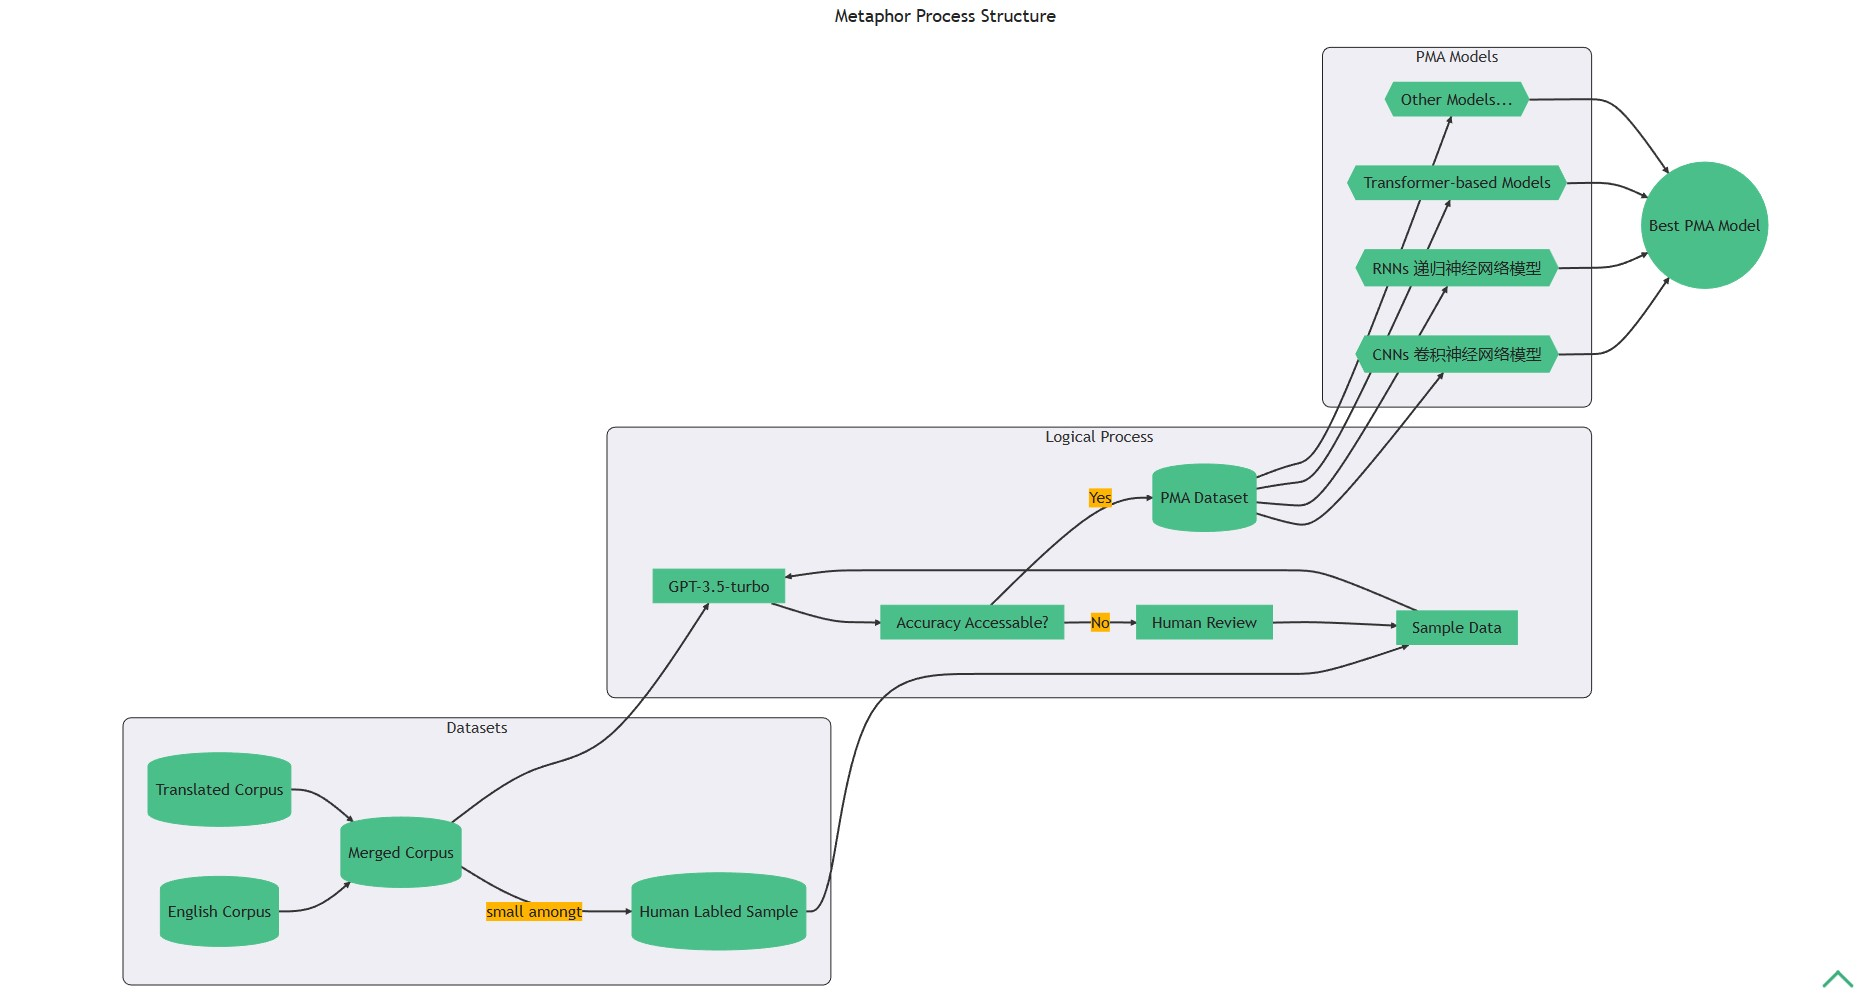
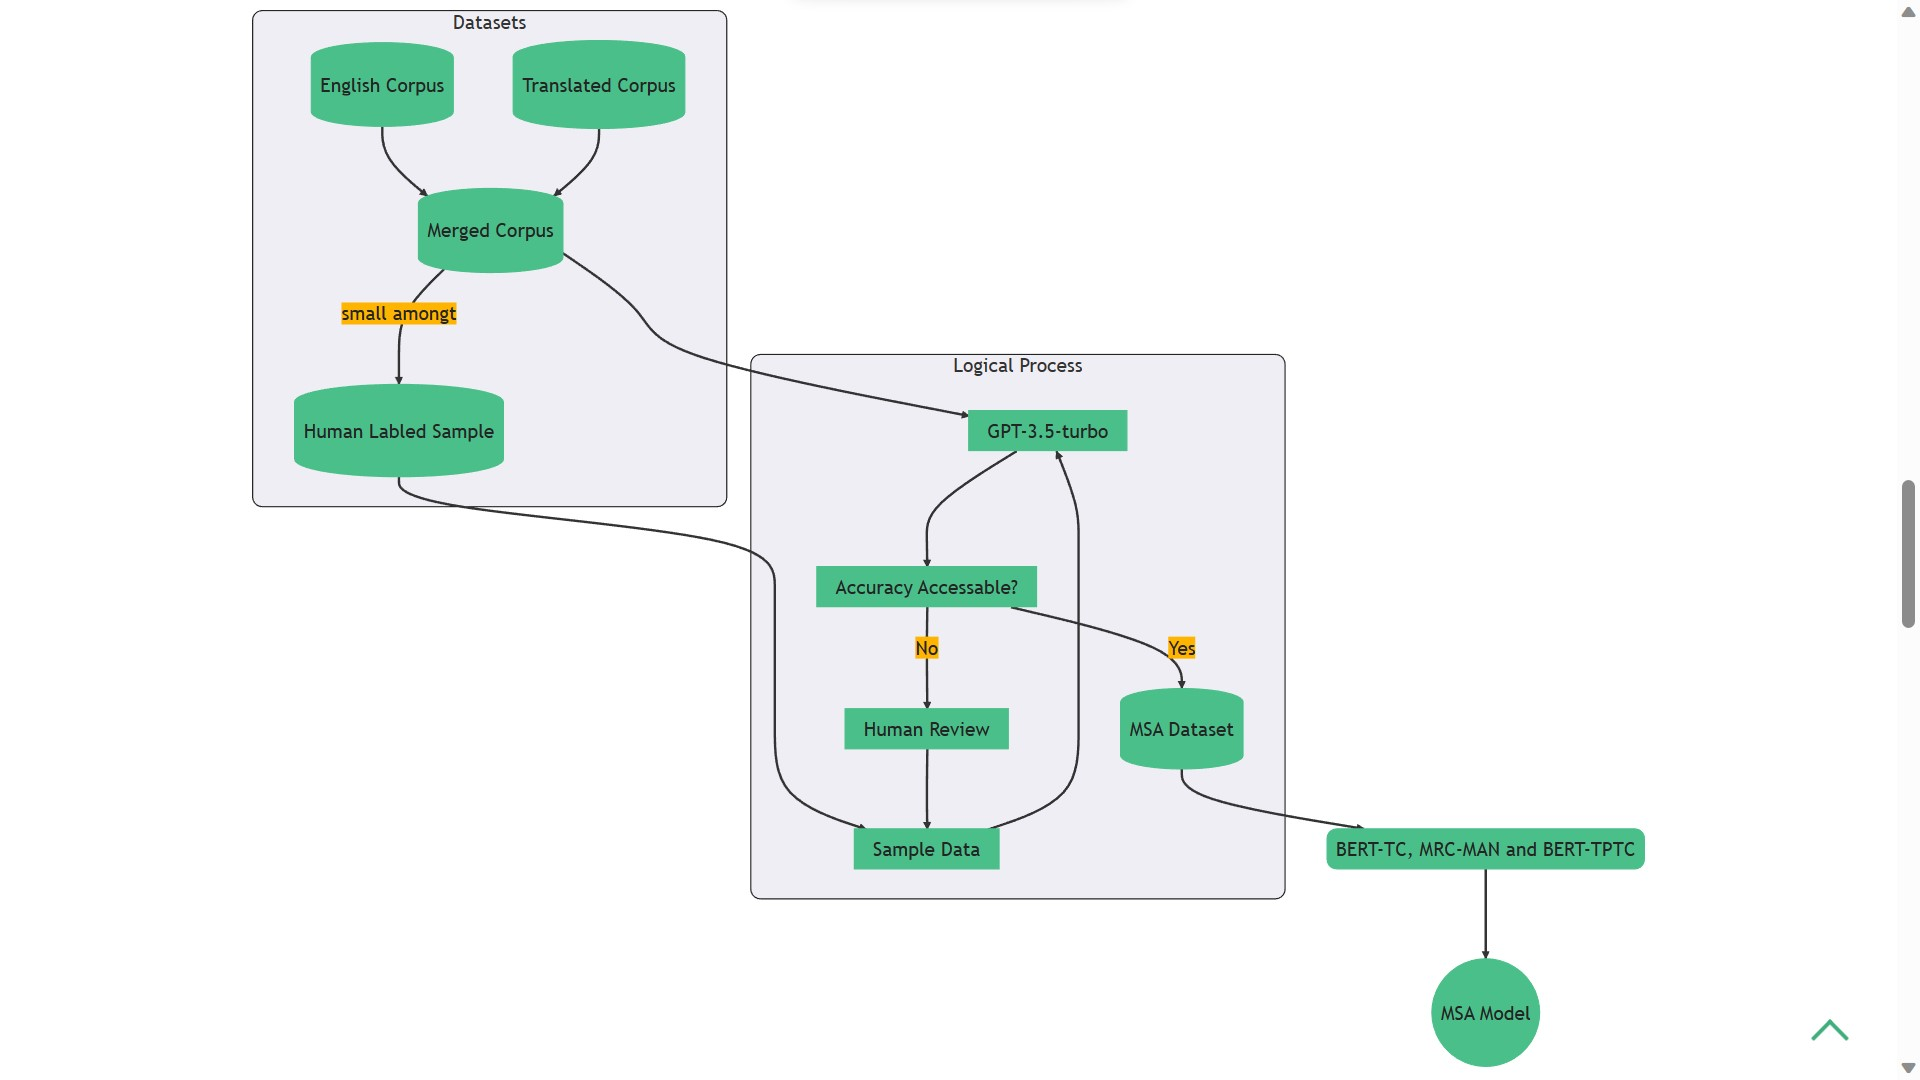
0

diff --git a/docs/english/Trump's_Inaugural_Address_Analysis.md b/docs/english/Trump's_Inaugural_Address_Analysis.md
@@ -1,54 +1,64 @@
-# Automated Analysis of Political Metaphors Based on Large Language Models: A Case Study of Trump’s Inaugural Speech
+# 基于深度学习的自动化政治隐喻分析研究：以特朗普就职演讲为例
 
 :::tip Abstract
-Political metaphors are widely used to shape public opinion and influence decision-making. However, traditional methods of political metaphor analysis (PMA) are often time-consuming, subjective and limited in scope. In this paper, we introduce a novel approach to PMA based on generative pre-trained transformers (GPT), a recent trend in natural language processing. We use GPT-3.5, a large-scale language model released by OpenAI, to analyse a corpus of political passages and generate a new dataset containing text and metaphor predictions. We then use this dataset to train our own metaphor model based on <根据实验结果选择最合适的模型>, which can identify and classify metaphors in political discourse. We test our metaphor model on the case of Trump's inaugural speech and achieve an accuracy of about <这篇论文是否存在取决于准确率的高低>, which indicates that our model can be used to analyse political metaphors effectively and efficiently.
+Political metaphors are widely used to shape public opinion and influence decision-making. However, traditional methods of political Metaphor Scenario analysis (MSA) are often time-consuming, subjective and limited in scope. In this paper, we introduce a novel approach to MSA based on generative pre-trained transformers (GPT), a recent trend in natural language processing. We use GPT-3.5, a large-scale language model released by OpenAI, to analyse a corpus of political passages and generate a new dataset containing text and metaphor predictions. We then use this dataset to train our own metaphor model based on <根据实验结果选择最合适的模型>, which can identify and classify metaphors in political discourse. We test our metaphor model on the case of Trump's inaugural speech and achieve an accuracy of about <这篇论文是否存在取决于准确率的高低>, which indicates that our model can be used to analyse political metaphors effectively and efficiently.
 :::
+
+## 目录
+
+[[toc]]
 
 ## 1 Introduction
 
-^[Dementieva D, Trifinov I, Likhachev A, et al. Detecting Text Formality: A Study of Text Classification Approaches[EB/OL]. arXiv:2204.08975[cs.CL], 2022.]
-^[Wu C, Yin S, Qi W, et al. Visual ChatGPT: Talking, Drawing and Editing with Visual Foundation Models[EB/OL]. arXiv:2303.04671[cs.CV], 2023.]
-^[Shen Y, Song K, Tan X, et al. HuggingGPT: Solving AI Tasks with ChatGPT and its Friends in HuggingFace[EB/OL]. arXiv:2303.17580[cs.CL], 2023.]
+### 1.1 课题研究背景
+
+One day, my instructor assigned us the task of composing an outline regarding a specific study on Trump’s Inaugural Address. While researching this topic, I discovered an intriguing approach to analysis known as Metaphor Scenario analysis (MSA). Based on the essays I read, it appears that this type of study is largely constrained by traditional methods of analysis, which involve detailed human examination of political texts. As a result, researchers are often limited to analyzing only a few texts, or even just one, for the entirety of their study. This precludes the possibility of drawing broader conclusions about specific political figures or other areas of inquiry.
+
+有一天，我的老师要求我们写一篇关于特朗普就职演说的特定研究的提纲。在研究这个主题时，我发现了一种名为隐喻图景分析（MSA）的有趣分析方法。根据我阅读的几篇论文，这种研究类型很大程度上受到传统分析方法的限制，这些方法涉及对政治文本的详细人工检查。因此，研究人员通常只能分析几篇甚至只有一篇文本来进行整个研究。这排除了关于特定政治人物或其他研究领域得出更广泛结论的可能性。
+
+### 1.2 研究目的和意义
+
+In an effort to expedite research in the field of MSA and complete our assigned coursework, we have developed a deep learning training system with the aim of automating MSA. Should the resulting model achieve an F1 score exceeding 0.99, it will be deemed suitable for utilization in large sample analysis for real research purposes.
+
+为了加快 MSA 领域的研究并完成我们指定的课程作业，我们开发了一个深度学习训练系统，目的是使 MSA 自动化。如果产生的模型达到了超过 0.95 的 F1 分数，它将被认为适合用于实际研究目的的大样本分析。
 
 ## 2 Related Works
 
 ### 2.1 Large Language Models
 
-^[Brown T B, Mann B, Ryder N, et al. Language Models are Few-Shot Learners[C]. Conference on Neural Information Processing Systems (NeurIPS), 2020.]
-^[Ouyang L, Wu J, Jiang X, et al. Training language models to follow instructions with human feedback[EB/OL]. 2022.]
-^[Chowdhery A, Narang S, Devlin J, et al. PaLM: Scaling Language Modeling with Pathways[EB/OL]. arXiv:2204.02311[cs.CL], 2022.]
-^[Zhang S, Roller S, Goyal N, et al. Opt: Open Pre-trained Transformer Language Models[EB/OL]. ArXiv, abs/2205.01068, 2022.]
-^[Zeng A, Liu X, Du Z, et al. Glm-130b: An Open Bilingual Pre-trained Model[C]. ICLR 2023 poster, 2023.]
-^[Touvron H, Lavril T, Izacard G, et al. Llama: Open and Efficient Foundation Language Models[EB/OL]. ArXiv, abs/2302.13971, 2023.]
+While GPT-4 may be the most suitable Large Language Model (LLM) for this task, it is not open source and therefore cannot be utilized in this research. Additionally, our instructor has expressed a preference against using GPT-4 for coursework. Fortunately, many foundation models for GPT-4 are open source and their reliability has been demonstrated by the success of the GPT series. In this study, we have elected to use BERT-TC (BERT-based Token Classification) as our tokenizer and MRC-MAN (Machine Reading Comprehension with Max Argument Number) and BERT-TPTC (BERT-based Two-Phased Token Classification) to identify tokens (words or phrases) of value in MSA research.
 
-### 2.2 Political Metaphor Analysis
+虽然 GPT-4 可能是最适合这项任务的大型语言模型（LLM），但它不是开源的，因此不能在本研究中加以利用。此外，我们的老师也表示不愿意将 GPT-4 用于课程作业。幸运的是，GPT-4 的许多基础模型都是开源的，其可靠性已经被 GPT 系列的成功所证明。在这项研究中，我们选择使用 BERT-TC 作为我们的 tokeniser，并使用 MRC-MAN 和 BERT-TPTC 来识别具有 MSA 研究价值的 token（单词或短语）。
 
-^[Musolff A. Political Metaphor Analysis: Discourse and Scenarios[M]. London: Bloomsbury Academic, 2016.]
+### 2.2 Metaphor Scenario analysis
+
+MSA is a prime example of the eclectic nature of academic research on metaphor in political discourse. Synthesising the main tenets of Conceptual Metaphor Theory (CMT), Critical Discourse Analysis (CDA) and Critical Metaphor Analysis (CMA) — which together provide the theoretical framework for investigating the multiple functions of political metaphor and metonymy — Musolff in his book presents a new methodological tool for metaphor research in discourse: the notion of metaphor scenarios, discourse-based conceptual structures realised in recurring narrative, argumentative and evaluative patterns that can be veri tied against synchronic or diachronic corpus data in order to yield insights into metaphor use, variation, interpretation and socio-historical situatedness.^[Musolff A. Political Metaphor Analysis: Discourse and Scenarios[M]. London: Bloomsbury Academic, 2016.]^[Arcimavičienė, L. (2017). A. Musolff, Political Metaphor Analysis: Discourse and scenarios. London: Bloomsbury Academic. Language and Cognition, 9(2), 371-377.]
+
+政治隐喻分析是关于政治话语中隐喻的学术研究~~折衷性质~~兼收并蓄的一个典型例子。综合概念隐喻理论（CMT）、批评话语分析（CDA）和批评隐喻分析（CMA）的主要原则--它们共同为研究政治隐喻和隐喻的多种功能提供了理论框架——Musolff 在他的书中提出了一种用于话语中隐喻研究的新方法学工具：隐喻情景的概念，即以话语为基础的概念结构，在反复出现的叙述、论证和评价模式中得到实现，可以与同步或异步语料库数据进行对比，以产生对隐喻使用、变化、解释和社会历史状况的洞察力。
 
 ### 2.3 Advances in LLM Capabilities
 
+介绍一下 LLM 的优势。^[Brown T B, Mann B, Ryder N, et al. Language Models are Few-Shot Learners[C]. Conference on Neural Information Processing Systems (NeurIPS), 2020.]^[Ouyang L, Wu J, Jiang X, et al. Training language models to follow instructions with human feedback[EB/OL]. 2022.]^[Chowdhery A, Narang S, Devlin J, et al. PaLM: Scaling Language Modeling with Pathways[EB/OL]. arXiv:2204.02311[cs.CL], 2022.]^[Zhang S, Roller S, Goyal N, et al. Opt: Open Pre-trained Transformer Language Models[EB/OL]. ArXiv, abs/2205.01068, 2022.]^[Zeng A, Liu X, Du Z, et al. Glm-130b: An Open Bilingual Pre-trained Model[C]. ICLR 2023 poster, 2023.]^[Touvron H, Lavril T, Izacard G, et al. Llama: Open and Efficient Foundation Language Models[EB/OL]. ArXiv, abs/2302.13971, 2023.]
+
 ## 3 Datasets
 
-### 3.1 Political Discourse in English
+### 3.1 Existing Papers
 
-^[[erikgahner/PolData: A dataset with political datasets](https://github.com/erikgahner/PolData)]
+Although MSA is a relatively new theory, it has already been applied in numerous research papers. Some of these paper's subjects are written in English, such as a paper analyzing Brexit^[孙毅,熊佳腾.英国脱欧话语的批评隐喻分析[J].解放军外国语学院学报,2022,45(02):1-9+137+160.], and can be directly included in our dataset. Others are written in Chinese but have official English translations, such as a paper analyzing XI JINGPING THE GOVERNANCE OF CHINA^[王卫侠.《习近平谈治国理政》(第三卷)中的隐喻图景阐释——以旅程隐喻为例[J].宜春学院学报,2022,44(11):94-99.], and can be included in our dataset after simple processing.
 
-### 3.2 Official Translated Political Discourse
+虽然 MSA 是一个相对较新的理论，但它已经被应用于许多研究论文中。其中一些论文的研究对象是用英文写的，比如一篇分析英国脱欧的论文，可以直接包含在我们的数据集中。还有一些是用中文写的，但有正式的英文翻译，比如一篇分析《习近平谈治国理政》的论文，经过简单的处理后，也可以纳入我们的数据集。
 
-^[[《习近平谈治国理政》多语数据库综合平台](http://imate.cascorpus.com)]
-^[[新时代中国特色话语大数据平台 Portal for Chinese Key Discourses in the New Era](http://49.232.145.25/data)]
+### 3.2 Labeling
 
-## 4 PMA Models
+Upon conducting a preliminary assessment, it was determined that the data available from the papers was inadequate to support the training of our language model. As such, we will gather a comprehensive corpus of relevant texts ^[[《习近平谈治国理政》多语数据库综合平台](http://imate.cascorpus.com)]^[[新时代中国特色话语大数据平台 Portal for Chinese Key Discourses in the New Era](http://49.232.145.25/data)]^[[erikgahner/PolData: A dataset with political datasets](https://github.com/erikgahner/PolData)] for manual or machine labeling. It is anticipated that a minimum of 1GB of text data will be obtained for training purposes, meeting the standard criteria for a "small" language model.
 
-### 4.1 GPT-3.5 Based Machine Labeling
-
-![Alt text](./p4.jpg)
+在进行初步评估后，我们确定，从论文中获得的数据不足以支持我们的语言模型的训练。因此，我们将收集一个全面的相关文本语料库，用于人工或机器标记。预计将获得至少 1GB 的文本数据用于训练，以满足“小型”语言模型的标准。
 
 ```mermaid
 ---
 title: Metaphor Process Structure
 ---
-flowchart LR
+flowchart TB
     ds1[(English Corpus)]
     ds2[(Translated Corpus)]
     ds3[(Merged Corpus)]
@@ -57,12 +67,12 @@ flowchart LR
     if[[Accuracy Accessable?]]
     review[[Human Review]]
     sample[[Sample Data]]
-    ds4[(PMA Dataset)]
+    ds4[(MSA Dataset)]
     dss --> sample
     ds3-->gpt
-    ds4--> m1 & m2 & m3 & more -->res
+    ds4--> model[BERT-TC, MRC-MAN and BERT-TPTC] --> res((MSA Model))
     subgraph Datasets
-    ds1 & ds2 --> ds3 -->|small amongt| dss    
+    ds1 & ds2 --> ds3 -->|small amongt| dss
     end
     subgraph Logical Process
     sample --> gpt
@@ -70,27 +80,38 @@ flowchart LR
     if --> |No| review --> sample
     if --> |Yes| ds4
     end
-    subgraph PMA Models
-    m1{{CNNs 卷积神经网络模型}}
-    m2{{RNNs 递归神经网络模型}}
-    m3{{Transformer-based Models}}
-    more{{Other Models...}}
-    end
-    res((Best PMA Model))
 ```
 
-### 4.2 Model Selection
+如果上面的内容无法正常显示，下面是替代的图片：
+
+![Alt text](./p4.jpg)
+
+## 4 MSA Model
+
+### 4.1 隐喻事件处理的定义
+
+### 4.2 隐喻事件提取的方法概述
+
+### 4.3 基于 token 分类的隐喻类型识别方法
+
+### 4.4 基于 MRC 框架和 token 分类的隐喻元素提取方法
+
+### 4.5 基于规则的隐喻分离方法
 
 ## 5 Experiments
 
 ### 5.1 Setting
 
+### 5.2 隐喻提取效果展示
+
 ### 5.2 Case Study
 
-^[[The Inaugural Address – The White House](https://trumpwhitehouse.archives.gov/briefings-statements/the-inaugural-address)]
-^[武建国,龚纯,宋玥.政治话语的批评隐喻分析——以特朗普演讲为例[J].外国语(上海外国语大学学报),2020,43(03):80-88.]
-^[孙毅,李全.政治隐喻与隐喻政治——基于特朗普总统就职演讲的隐喻图景分析[J].山东外语教学,2019,40(05):35-47.DOI:10.16482/j.sdwy37-1026.2019-05-004.]
+以特朗普就职演讲为例，尝试使用 MSA 模型进行快速政治隐喻分析。^[[The Inaugural Address – The White House](https://trumpwhitehouse.archives.gov/briefings-statements/the-inaugural-address)]^[武建国,龚纯,宋玥.政治话语的批评隐喻分析——以特朗普演讲为例[J].外国语(上海外国语大学学报),2020,43(03):80-88.]^[孙毅,李全.政治隐喻与隐喻政治——基于特朗普总统就职演讲的隐喻图景分析[J].山东外语教学,2019,40(05):35-47.DOI:10.16482/j.sdwy37-1026.2019-05-004.]
 
 ## 5 Discussions
 
 ## 6 Conclusion
+
+## 7 Acknowledgment
+
+这些参考资料不知道放哪里合适，就写这里吧。^[Dementieva D, Trifinov I, Likhachev A, et al. Detecting Text Formality: A Study of Text Classification Approaches[EB/OL]. arXiv:2204.08975[cs.CL], 2022.]^[Wu C, Yin S, Qi W, et al. Visual ChatGPT: Talking, Drawing and Editing with Visual Foundation Models[EB/OL]. arXiv:2303.04671[cs.CV], 2023.]^[Shen Y, Song K, Tan X, et al. HuggingGPT: Solving AI Tasks with ChatGPT and its Friends in HuggingFace[EB/OL]. arXiv:2303.17580[cs.CL], 2023.]
